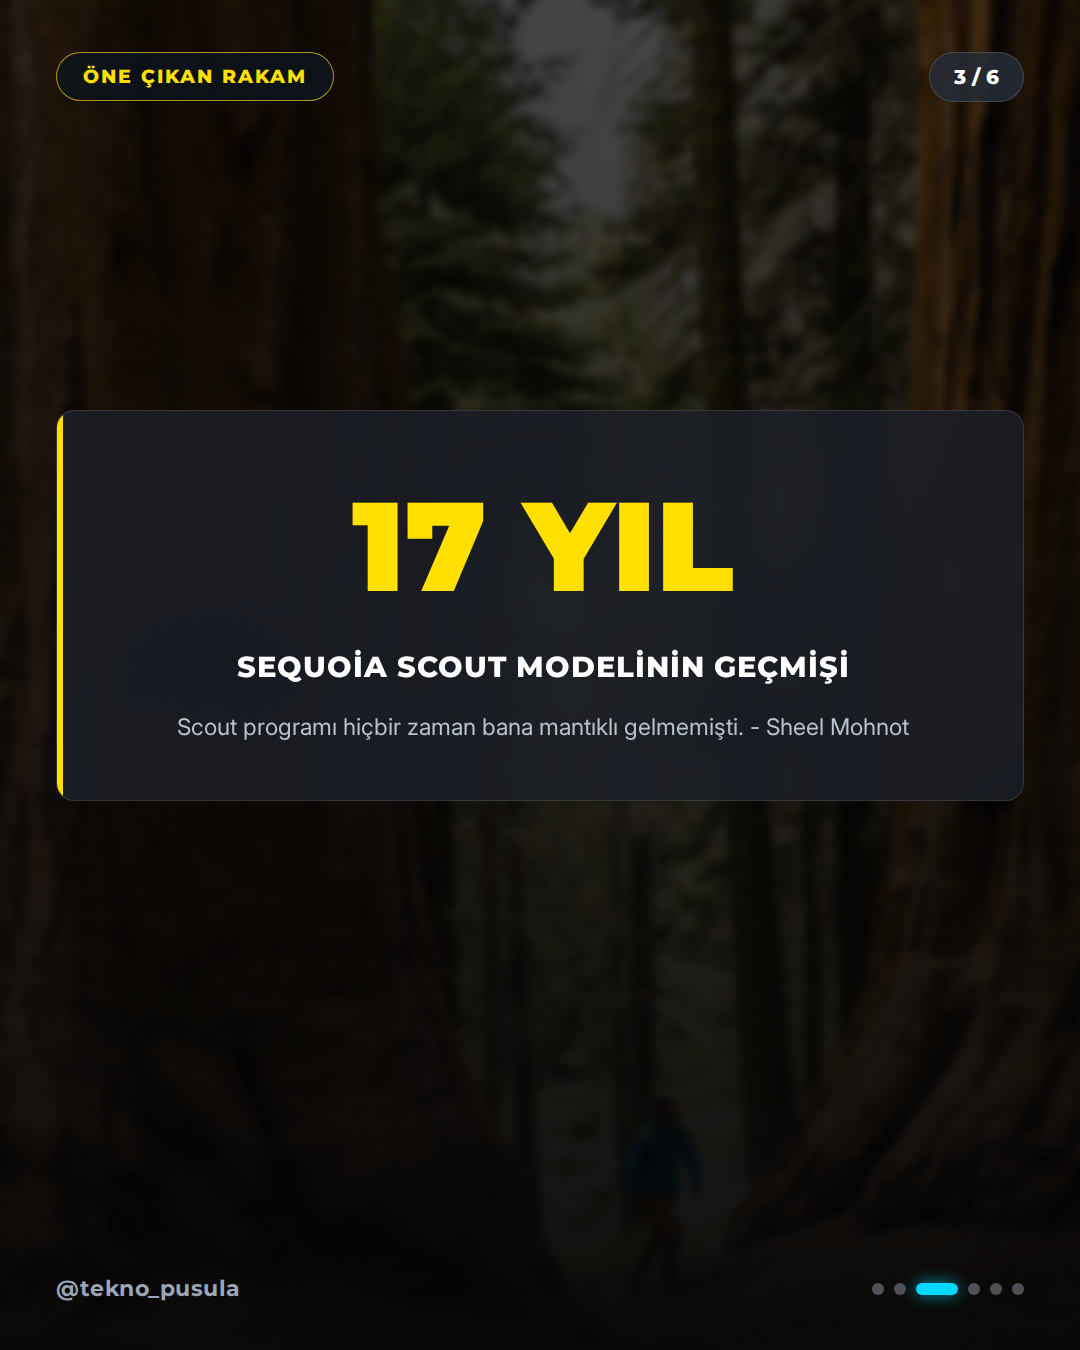
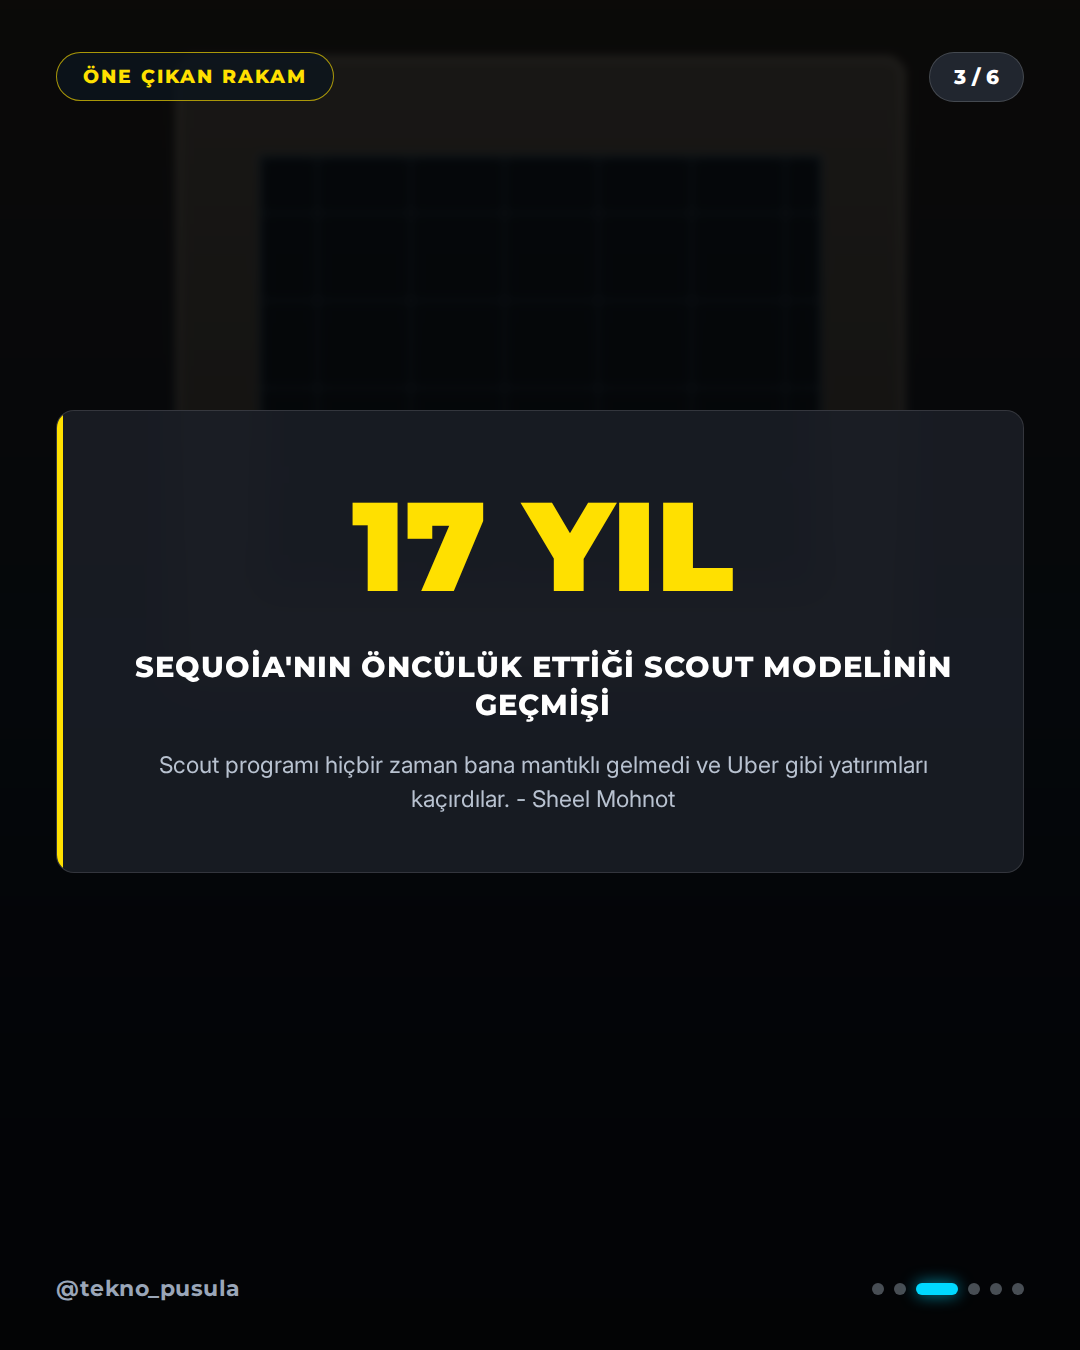
🤖 post: 2026-11-07 09:00 – Sequoia shutting down its Scouts program marks the end of an

diff --git a/output/2026-11-07/01-0900-sequoia-shutting-down-its-scouts-program-marks-t/captions.md b/output/2026-11-07/01-0900-sequoia-shutting-down-its-scouts-program-marks-t/captions.md
@@ -2,36 +2,44 @@
 
 ## INSTAGRAM
 
-Girişim sermayesi devi Sequoia, Londra ofisini kapatma ve 17 yıllık scout programını sonlandırma kararı aldı! Sektörde büyük yankı uyandıran bu hamle, yatırım dünyasının dinamiklerini değiştiriyor. Peki a16z küresel ağını genişletirken Sequoia neden küçülmeyi seçti? Girişim sermayesinde scout programlarının kapanması sektörü nasıl etkiler? Teknoloji dünyasındaki gelişmeleri kaçırmamak için takipte kalın! Kaynak: TechCrunch, BBC News
+Girişim sermayesi devi Sequoia Londra ofisini kapatma ve 17 yıllık scout programını sonlandırma kararı aldı! Teknoloji dünyasında büyük yankı uyandıran bu hamle, sektördeki stratejilerin değiştiğini gösteriyor. Sence scout programlarının dönemi kapanıyor mu? Kaynak: TechCrunch, BBC News
 
-#Sequoia #GirişimSermayesi #Teknoloji #Yatırım #Startup #London #Business #TechNews #Finans #Girişim
+#Sequoia #GirişimSermayesi #Teknoloji #Yatırım #Startup #TechNews #Londra #VC #Business #News
 
 ## TIKTOK
 
-Girişim sermayesi devi Sequoia Londra ofisini kapatıyor ve 17 yıllık efsane programına son veriyor! Teknoloji dünyasındaki bu büyük değişimin detayları yayında. Kaynak: TechCrunch, BBC News
+Sequoia Londra ofisini neden kapattı ve 17 yıllık programını neden bitirdi? Girişim dünyasında büyük değişim! Kaynak: TechCrunch, BBC News
 
-#Sequoia #Startup #Girişim #Teknoloji #Haber
+#Sequoia #Girişim #Teknoloji #Yatırım #Haber
 
 ## X
 
-Girişim sermayesi devi Sequoia, Londra ofisini kapatacağını ve 17 yıllık scout programını sonlandıracağını duyurdu. Sektörde büyük yankı uyandıran bu hamle rekabeti nasıl etkileyecek? Kaynak: TechCrunch, BBC News
+Girişim sermayesi devi Sequoia, Londra ofisini kapatma ve 17 yıllık scout programını sonlandırma kararı aldı. Sektörde stratejiler yeniden şekilleniyor. Kaynak: TechCrunch, BBC News
 
-#Sequoia #Startup
+#Sequoia #Teknoloji
 
 ## THREADS
 
-Sequoia Londra Ofisini Kapatıyor 💭 Girişim sermayesi devi Sequoia, Londra ofisini kapatma ve 17 yıllık scout programını sonlandırma kararı aldı. Bu hamle sektörde büyük şaşkınlık yarattı. Girişim sermayesinde scout programlarının kapanması sektörü nasıl etkiler? Kaynak: TechCrunch
+Sequoia'dan Büyük Değişiklik 🚨
+
+Girişim sermayesi devi Sequoia Londra ofisini kapatıyor ve 17 yıllık scout programını sonlandırıyor.
+
+Sence girişim sermayesinde scout programlarının dönemi kapanıyor mu? 💭 Kaynak: TechCrunch, BBC News
 
 #Sequoia
 
 ## LINKEDIN
 
-Girişim sermayesi ekosisteminde çığır açan bir gelişme yaşandı. Sequoia, Londra ofisini kapatma ve 17 yıllık scout programını sonlandırma kararı aldığını duyurdu. 2020-2025 yılları arasında bu yapının içinde yer alan isimler karardan duydukları üzüntüyü paylaşırken, rakip fonlar küresel ağlarını genişletmeye devam ediyor. Girişim sermayesinde scout modellerinin dönüştüğü bu süreç sektörü nasıl şekillendirecek? Kaynak: TechCrunch, BBC News
+Girişim sermayesi ekosisteminde önemli bir dönüm noktası yaşanıyor. Sequoia, Londra ofisini kapatma ve 17 yıldır sürdürdüğü scout programını sonlandırma kararı aldı. Bu hamle, yatırım stratejilerinin küresel ölçekte yeniden değerlendirildiğini gösterirken, a16z gibi alternatif ağların önemini artırıyor. Sektördeki bu dönüşümü nasıl değerlendiriyorsunuz?
+
+Kaynak: TechCrunch, BBC News
 
 #GirişimSermayesi #Yatırım #Teknoloji #Startup #Business
 
 ## FACEBOOK
 
-Girişim sermayesi devi Sequoia'dan büyük değişim hamlesi! Şirket, Londra ofisini kapatacağını ve 17 yıllık scout programını sonlandıracağını açıkladı. Sektörde yankı uyandıran bu kararın ardından rekabet nasıl şekillenecek? Girişim sermayesinde scout programlarının kapanması sektörü nasıl etkiler? Teknoloji dünyasındaki gelişmeleri kaçırmamak için takipte kalın! Kaynak: TechCrunch, BBC News
+Girişim sermayesi devi Sequoia'dan büyük değişiklik! Şirket, Londra ofisini kapatma ve 17 yıllık scout programını sonlandırma kararı aldığını duyurdu. Teknoloji dünyasındaki bu gelişme hakkında ne düşünüyorsunuz?
 
-#Sequoia #Teknoloji #Yatırım #Startup #GirişimSermayesi
+Kaynak: TechCrunch, BBC News
+
+#Sequoia #Teknoloji #GirişimSermayesi #Yatırım #Haber

diff --git a/output/2026-11-07/01-0900-sequoia-shutting-down-its-scouts-program-marks-t/verification.md b/output/2026-11-07/01-0900-sequoia-shutting-down-its-scouts-program-marks-t/verification.md
@@ -3,7 +3,7 @@
 **Haber:** Sequoia shutting down its Scouts program marks the end of an era
 **Canonical URL:** https://techcrunch.com/2026/11/06/sequoia-shutting-down-its-scouts-program-marks-the-end-of-an-era/
 **Kaynaklar:** TechCrunch, Ars Technica, BBC News – Technology, MIT Technology Review
-**Kontrol zamanı:** 2026-11-07T11:17:30+03:00
+**Kontrol zamanı:** 2026-11-07T11:22:39+03:00
 **Sonuç:** ✅ YAYINLANABİLİR
 
 ---
@@ -22,11 +22,11 @@
   - [https://techcrunch.com/2026/11/06/sequoia-shutting-down-its-scouts-program-marks-the-end-of-an-era/](https://techcrunch.com/2026/11/06/sequoia-shutting-down-its-scouts-program-marks-the-end-of-an-era/)
     > That’s partly because 17 years ago, Sequoia pioneered the scouts model, in which select founders and operators write checks on the firm’s behalf.
 
-### 3. VC Sheel Mohnot wrote on X that the scout program never made sense to him.
+### 3. VC Sheel Mohnot wrote on X that the scout program never made sense to him and that they missed investments like Uber.
 - **Karar:** ✅ `supported`
 - **Kanıtlar:**
   - [https://techcrunch.com/2026/11/06/sequoia-shutting-down-its-scouts-program-marks-the-end-of-an-era/](https://techcrunch.com/2026/11/06/sequoia-shutting-down-its-scouts-program-marks-the-end-of-an-era/)
-    > “They pioneered the scout program but [to be honest] it never made sense to me!” VC Sheel Mohnot wrote on X this week.
+    > “They pioneered the scout program but [to be honest] it never made sense to me!” VC Sheel Mohnot wrote on X this week. “The scouts themselves don’t really care that much about the investments, you can still miss (like they did with Uber), not sure what it gets you.
 
 ### 4. Andreessen Horowitz (a16z) rolled out a global scout network aimed at spotting opportunities in the U.S. and smaller European hubs.
 - **Karar:** ✅ `supported`
@@ -40,13 +40,13 @@
   - [https://techcrunch.com/2026/11/06/sequoia-shutting-down-its-scouts-program-marks-the-end-of-an-era/](https://techcrunch.com/2026/11/06/sequoia-shutting-down-its-scouts-program-marks-the-end-of-an-era/)
     > But a16z partner Gabriel Vasquez told TechCrunch earlier this year that the firm had revamped its program to double down “on the best people.”
 
-### 6. Roxanne Varza was a Sequoia scout from 2020 to 2025.
+### 6. Station F boss Roxanne Varza was a Sequoia scout from 2020 to 2025.
 - **Karar:** ✅ `supported`
 - **Kanıtlar:**
   - [https://techcrunch.com/2026/11/06/sequoia-shutting-down-its-scouts-program-marks-the-end-of-an-era/](https://techcrunch.com/2026/11/06/sequoia-shutting-down-its-scouts-program-marks-the-end-of-an-era/)
     > Varza, a former Sequoia scout from 2020 to 2025, told TechCrunch that she had no information beyond what has been shared publicly
 
-### 7. Roxanne Varza wrote on LinkedIn that she was sad to hear that the Sequoia scout program was getting cut off.
+### 7. Roxanne Varza wrote on LinkedIn that she was sad to hear that Sequoia's scout program was getting cut off.
 - **Karar:** ✅ `supported`
 - **Kanıtlar:**
   - [https://techcrunch.com/2026/11/06/sequoia-shutting-down-its-scouts-program-marks-the-end-of-an-era/](https://techcrunch.com/2026/11/06/sequoia-shutting-down-its-scouts-program-marks-the-end-of-an-era/)
@@ -65,7 +65,7 @@
 | VC Sheel Mohnot wrote on X that the scout program never made | supported | supported | supported |
 | Andreessen Horowitz (a16z) rolled out a global scout network | supported | supported | supported |
 | a16z partner Gabriel Vasquez told TechCrunch earlier this ye | supported | supported | supported |
-| Roxanne Varza was a Sequoia scout from 2020 to 2025. | supported | supported | supported |
+| Station F boss Roxanne Varza was a Sequoia scout from 2020 t | supported | supported | supported |
 | Roxanne Varza wrote on LinkedIn that she was sad to hear tha | supported | supported | supported |
 
 ## Kaynak Metinleri
